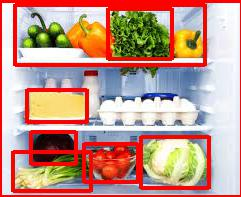
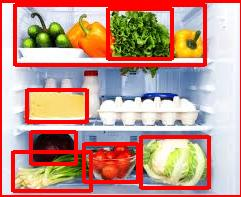
small change

diff --git a/backend/objectdetection.py b/backend/objectdetection.py
@@ -4,6 +4,7 @@ import os
 
 os.environ['GOOGLE_APPLICATION_CREDENTIALS'] = r'ServiceAccountToken.json'
 
+
 def localize_objects(path):
     """Localize objects in the local image.
 
@@ -55,5 +56,5 @@ def localize_objects(path):
 
 
 if __name__ == "__main__":
-    path = "./images/fridge.jfif"
+    path = "./images/fridge.jpg"
     localize_objects(path)
